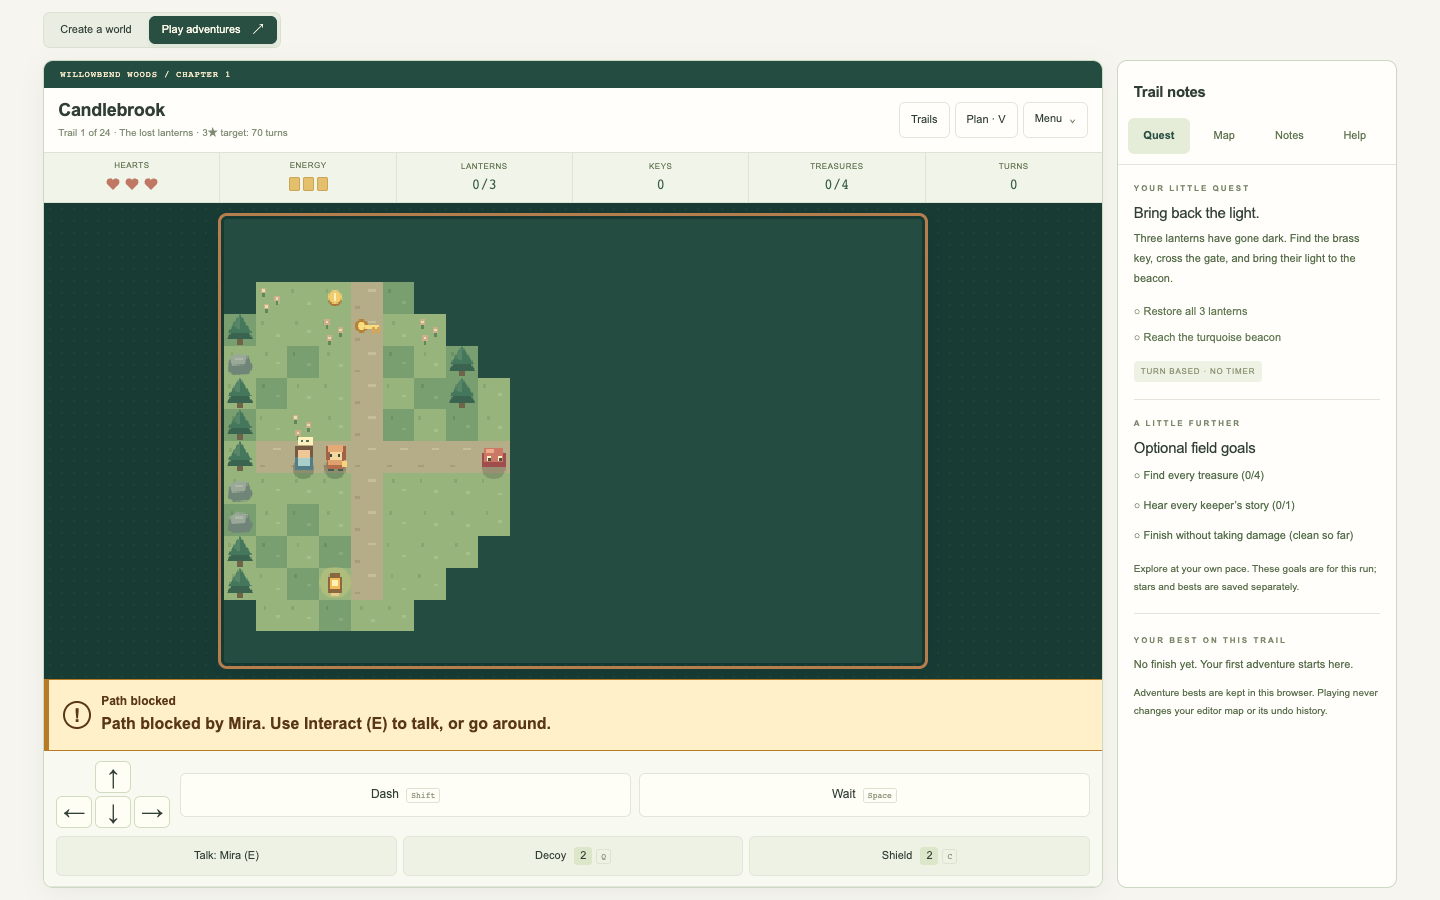
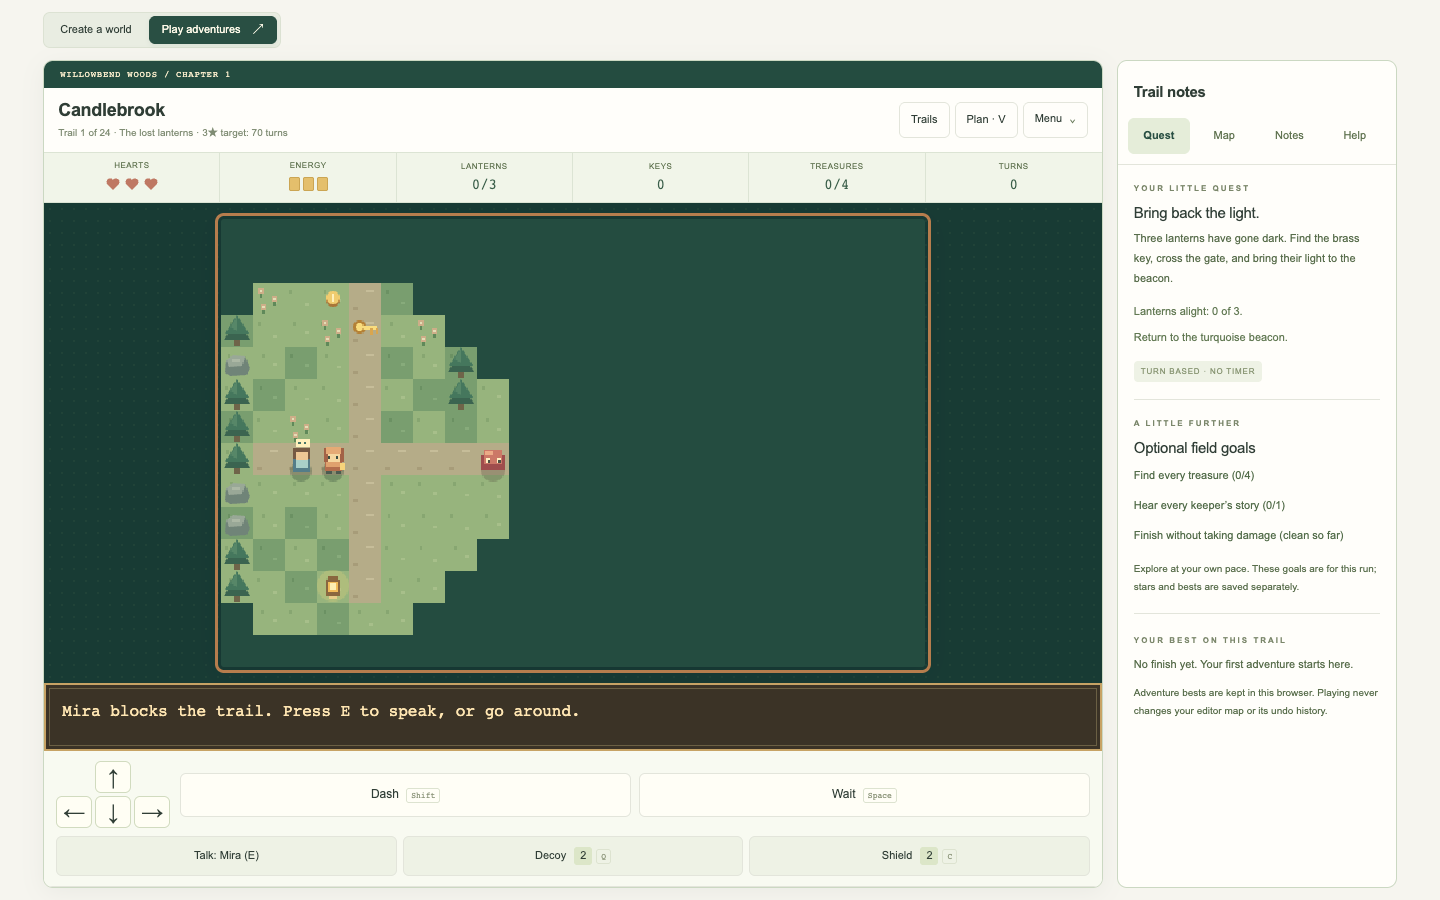
Use game-style text and remove checklist symbols

diff --git a/index.html b/index.html
@@ -13,7 +13,7 @@
 </head>
 <body>
   <header class="site-header">
-    <a class="brand" href="./" aria-label="Tilewright home"><img src="icon.svg" width="31" height="31" alt="">Tilewright<span class="version">v0.10.1</span></a>
+    <a class="brand" href="./" aria-label="Tilewright home"><img src="icon.svg" width="31" height="31" alt="">Tilewright<span class="version">v0.10.2</span></a>
     <span class="header-note">A small tool for imaginary places.</span>
     <a class="source-link" href="https://github.com/YouKnowJP/Personal-Project/tree/main/Tilewright" target="_blank" rel="noreferrer">Source code <span aria-hidden="true">↗</span></a>
   </header>
@@ -106,7 +106,7 @@
           <div class="game-hud" aria-label="Adventure status"><div><span>HEARTS</span><strong id="game-health" class="resource-meter" role="img" aria-label="Health: 3 of 3"></strong></div><div><span>ENERGY</span><strong id="game-energy" class="resource-meter" role="img" aria-label="Energy: 3 of 3"></strong></div><div><span>LANTERNS</span><strong id="game-lanterns">0/3</strong></div><div><span>KEYS</span><strong id="game-keys">0</strong></div><div><span>TREASURES</span><strong id="game-coins">0/4</strong></div><div><span>TURNS</span><strong id="game-turns">0</strong></div></div>
           <p id="game-expedition-banner" class="game-expedition-banner" hidden></p>
           <div class="game-viewport" id="game-viewport"><canvas id="adventure-canvas" width="528" height="336" tabindex="0" role="img" aria-label="Adventure map. Move with arrows or WASD. Shift plus a direction dashes. Space waits." aria-describedby="game-controls-help"></canvas><div class="game-overlay" id="game-overlay" hidden><p id="game-result-eyebrow" class="eyebrow"></p><h3 id="game-result-title"></h3><div id="game-stars" class="game-stars"></div><p id="game-result-text"></p><div><button id="game-primary" class="primary">Resume adventure</button><button id="game-nemesis" hidden>Replay this act on Nemesis</button><button id="game-expeditions">Expedition hub</button><button id="game-back-editor">Back to editor</button></div></div></div>
-          <div id="game-status" class="game-status" role="status" aria-live="polite" aria-atomic="true" data-tone="info"><span id="game-status-mark" class="game-status-mark" aria-hidden="true">i</span><div><strong id="game-status-label">On the trail</strong><p id="game-status-text">Find three lanterns and reach the beacon.</p></div></div>
+          <div id="game-status" class="game-status" role="status" aria-live="polite" aria-atomic="true" data-tone="info"><p id="game-status-text">Find the lost lanterns. The beacon is waiting.</p></div>
           <div class="game-controls"><div class="direction-pad" aria-label="Movement controls"><button data-move="up" aria-label="Move up">↑</button><button data-move="left" aria-label="Move left">←</button><button data-move="down" aria-label="Move down">↓</button><button data-move="right" aria-label="Move right">→</button></div><button id="dash-button" title="2 energy · then choose a direction" aria-pressed="false">Dash <kbd>Shift</kbd></button><button id="game-wait" title="Let patrols move and recharge one energy">Wait <kbd>Space</kbd></button><p id="game-controls-help">Arrows / WASD to move · Shift + direction to dash · Swipe or use the direction pad on touch.</p><label id="game-target-wrap" class="game-target-wrap" hidden>Nearby action<select id="game-target" aria-label="Choose a nearby interaction"></select></label><p id="game-interaction-note" class="game-interaction-note" hidden></p><div class="tactical-actions"><button id="game-interact" disabled>Interact <kbd>E</kbd></button><button id="game-decoy">Decoy <span id="game-decoys">2</span><kbd>Q</kbd></button><button id="game-shield">Shield <span id="game-shields">2</span><kbd>C</kbd></button><button id="game-power" hidden disabled>Specialist · B</button><button id="game-cargo" hidden disabled>Set relic down <kbd>X</kbd></button></div></div>
         </section>
         <aside class="game-aside" id="game-aside" aria-label="Quest information">

diff --git a/adventure.css b/adventure.css
@@ -60,13 +60,11 @@
 .game-controls kbd { margin-left:10px; font-size:8px; color:#8e977c; border:1px solid #dde3d0; padding:2px 4px; border-radius:3px; }
 .game-controls #dash-button.armed { background:#f7e9c5; border-color:#cfb16c; }
 .game-controls>p { margin-left:auto; font-size:9px; line-height:1.9; color:#8d967e; }
-.game-status { --feedback-ink:#203e34; --feedback-paper:#f0f5e8; --feedback-line:#74916a; display:grid; grid-template-columns:28px minmax(0,1fr); align-items:center; gap:10px; min-height:72px; padding:10px 14px; color:var(--feedback-ink); background:var(--feedback-paper); border-block:1px solid var(--feedback-line); border-left:5px solid var(--feedback-line); }
-.game-status[data-tone="warning"] { --feedback-ink:#593715; --feedback-paper:#fff0ca; --feedback-line:#b77a25; }
-.game-status[data-tone="danger"] { --feedback-ink:#79281d; --feedback-paper:#ffebe3; --feedback-line:#bc5844; }
-.game-status[data-tone="success"] { --feedback-ink:#20533b; --feedback-paper:#e8f5e6; --feedback-line:#4f8a5c; }
-.game-status-mark { display:grid; place-items:center; width:28px; height:28px; border:2px solid currentColor; border-radius:50%; font-size:19px; font-weight:800; line-height:1; }
-#game-status-label { display:block; margin-bottom:3px; font-size:12px; font-weight:800; line-height:1.25; }
-#game-status-text { margin:0; font-size:16px; font-weight:600; line-height:1.45; overflow-wrap:anywhere; }
+.game-status { --feedback-ink:#f5ebce; --feedback-paper:#203c36; --feedback-line:#b2a370; min-height:68px; padding:14px 16px; color:var(--feedback-ink); background:var(--feedback-paper); border:2px solid var(--feedback-line); box-shadow:inset 0 0 0 3px var(--feedback-paper),inset 0 0 0 4px #b2a37066; }
+.game-status[data-tone="warning"] { --feedback-ink:#ffe6b2; --feedback-paper:#3b3326; --feedback-line:#c7a365; }
+.game-status[data-tone="danger"] { --feedback-ink:#ffddc6; --feedback-paper:#4c2828; --feedback-line:#c68a70; }
+.game-status[data-tone="success"] { --feedback-ink:#e4f5ce; --feedback-paper:#253f34; --feedback-line:#9eb680; }
+#game-status-text { margin:0; font:500 16px/1.5 ui-monospace,SFMono-Regular,Consolas,monospace; overflow-wrap:anywhere; }
 .game-aside { display:flex; flex-direction:column; gap:16px; min-width:0; }
 .game-aside section { border:1px solid #dce3d2; background:#fffefa; border-radius:8px; padding:19px; }
 .game-aside h3 { font-size:15px; font-weight:500; margin:10px 0; letter-spacing:-.3px; }
@@ -437,7 +435,7 @@ summary:focus-visible,[role="tabpanel"]:focus-visible { outline:3px solid #b67d4
   .playing .tactical-actions { gap:5px; }
   .playing .tactical-actions button { min-height:44px; font-size:10px; padding:7px 3px; }
   .playing .tactical-actions button span { margin-left:3px; min-width:14px; padding:1px; }
-  .playing .game-status { padding:9px 10px; gap:8px; }
+  .playing .game-status { padding:12px; }
   .playing .game-target-wrap { font-size:10px; }
   .playing .game-target-wrap select { min-height:36px; padding:5px 7px; }
   .playing .game-controls>.game-interaction-note:not([hidden]) { font-size:9px; }

diff --git a/docs/QA.md b/docs/QA.md
@@ -1,5 +1,28 @@
 # Verification record
 
+## Game text and symbol-free progress — v0.10.2
+
+The 258 Node tests and 37-file build pass. The seven-size Chrome layout suite
+verifies that the dark game text box has no status icon or alert heading,
+contains no checkbox symbols, keeps 16px text and at least 7:1 contrast, and
+preserves controls, focus, and bounded short-screen scrolling. Blocked keepers,
+repeated input, dialogue, normal travel, and key pickups use real actions.
+
+The complete introductory browser suite passes again, including three-star
+wins, icon-free completed quest notes, saved progress, editor-history isolation,
+touch/swipe, pause, and storage failure. Both new double jobs finish on 320px
+and 390px touch layouts. The completed rescue/delivery job additionally checks
+plain-text goals, earned commendations, and its saved Guild result. Other
+browser helpers now inspect completion metadata rather than decorative glyphs;
+their wider playthrough coverage retains the version-specific scope below.
+
+Messages use a gold-framed, monospace game text box without checkmarks, circles,
+or notification headings. Quest notes and Guild results use words and counts.
+Desktop and phone screenshots were inspected. Saved game state and turn rules
+remain unchanged; no new external fonts, assets, or services are required.
+
+![The in-game message box on a phone](feedback-mobile.png)
+
 ## Readable gameplay feedback — v0.10.1
 
 **258 Node tests**, syntax checks, and the **37-file build** pass. The seven-size

diff --git a/README.md b/README.md
@@ -46,9 +46,10 @@ controls fit standard portrait and desktop screens; short phones and landscape
 use a bounded page scroll so controls remain reachable.
 
 Gameplay messages stay directly beneath the map, above the movement controls.
-Larger, high-contrast text and clear labels distinguish blocked paths, damage,
-and successful actions. Messages remain until the next action; dialogue and
-Plan forecasts also use larger, darker text.
+A dark, gold-framed text box uses large, high-contrast lettering and in-world
+messages. Quest progress uses words and counts without checkbox symbols.
+Messages remain until the next action; dialogue and Plan forecasts also use
+larger text.
 
 Restore every golden lantern, then reach the turquoise beacon. The world advances after a valid move, wait, or tactical interaction; there is no timer.
 Dialogue and the Plan forecast pause the turn rules. Blocked moves cost nothing.

diff --git a/CHANGELOG.md b/CHANGELOG.md
@@ -1,5 +1,17 @@
 # Changelog
 
+## 0.10.2 — 2026-10-19
+
+- Replace alert-style message panels with a dark, gold-framed game text box and
+  16px monospace lettering. Remove status icons and headings; keep readable
+  contrast, persistent text, and the existing position beneath the map.
+- Use in-world messages for travel, rest, and blocked keepers. Carried relics
+  and audible footsteps retain their distinct warnings.
+- Remove checkmarks, empty circles, and cross/medallion markers from quest notes,
+  side goals, and Guild commendations. Express progress with words and counts.
+- Update browser checks to verify actual completion and earned state instead
+  of matching decorative symbols. Preserve game rules and saved progress.
+
 ## 0.10.1 — 2026-10-19
 
 - Move gameplay feedback directly between the map and controls. Use persistent
